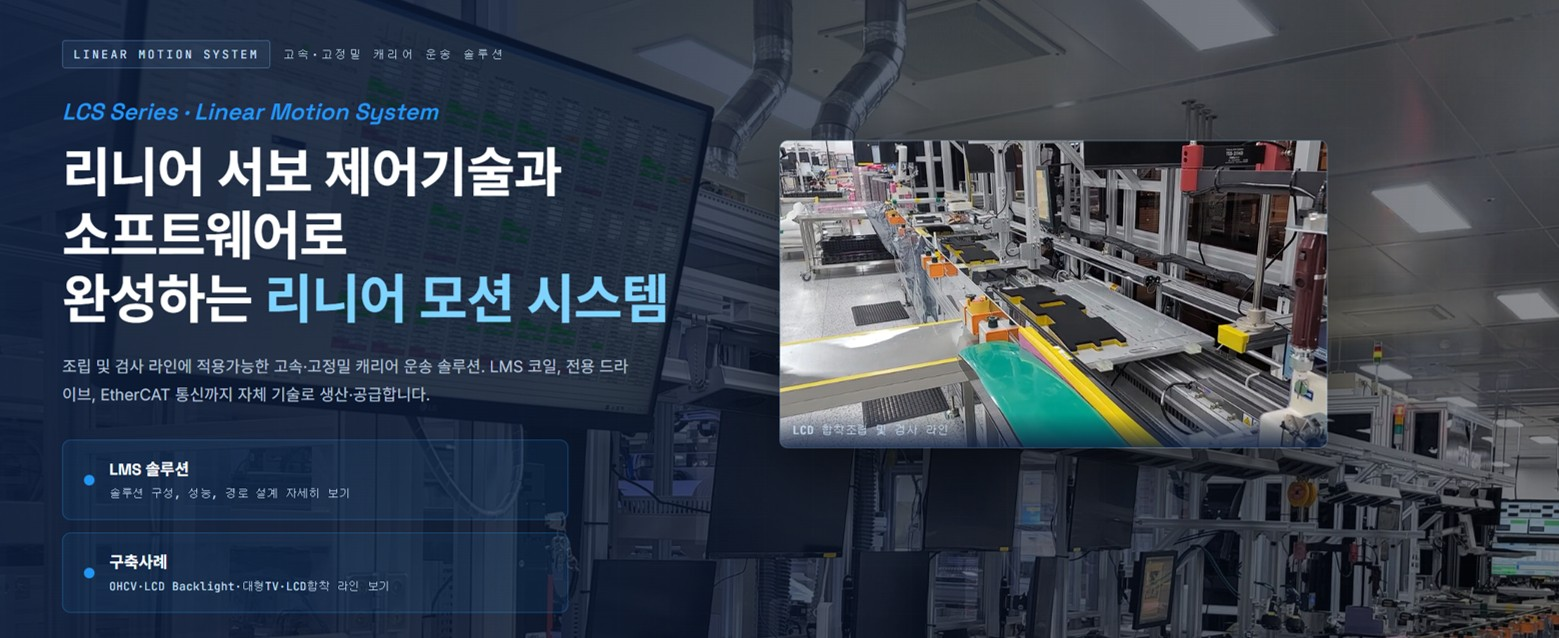
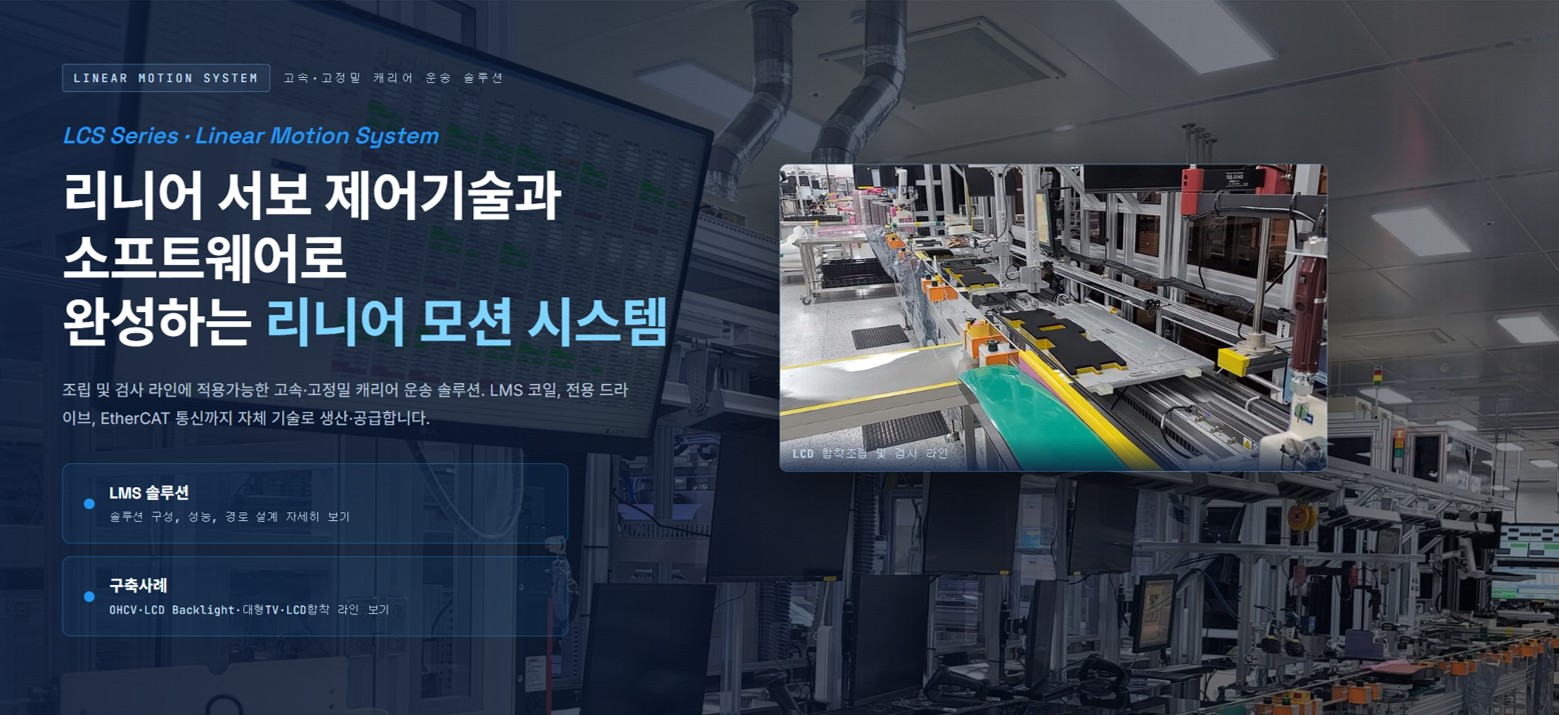
Full

diff --git a/assets/css/style.css b/assets/css/style.css
@@ -161,7 +161,7 @@ a { text-decoration: none; color: inherit; }
      left:50% + translateX(-50%)로 컨테이너(=하단 6개 카드와 동일한 .container) 중앙선 기준 강제 중앙정렬 */
   position: relative; left: 50%; transform: translateX(-50%);
   overflow: hidden; border-radius: 14px;
-  aspect-ratio: 1559 / 638;
+  aspect-ratio: 1559 / 713; /* CNC 카드 이미지(세로로 더 크게 캡처)가 잘리지 않고 전체가 보이도록 박스 비율 조정 */
   width: 120%; max-width: calc(100vw - 32px); /* 컨테이너보다 넓게 돌출(양쪽 최소 16px 여백만 확보) */
   touch-action: pan-y; cursor: grab; user-select: none; -webkit-user-select: none;
 }
